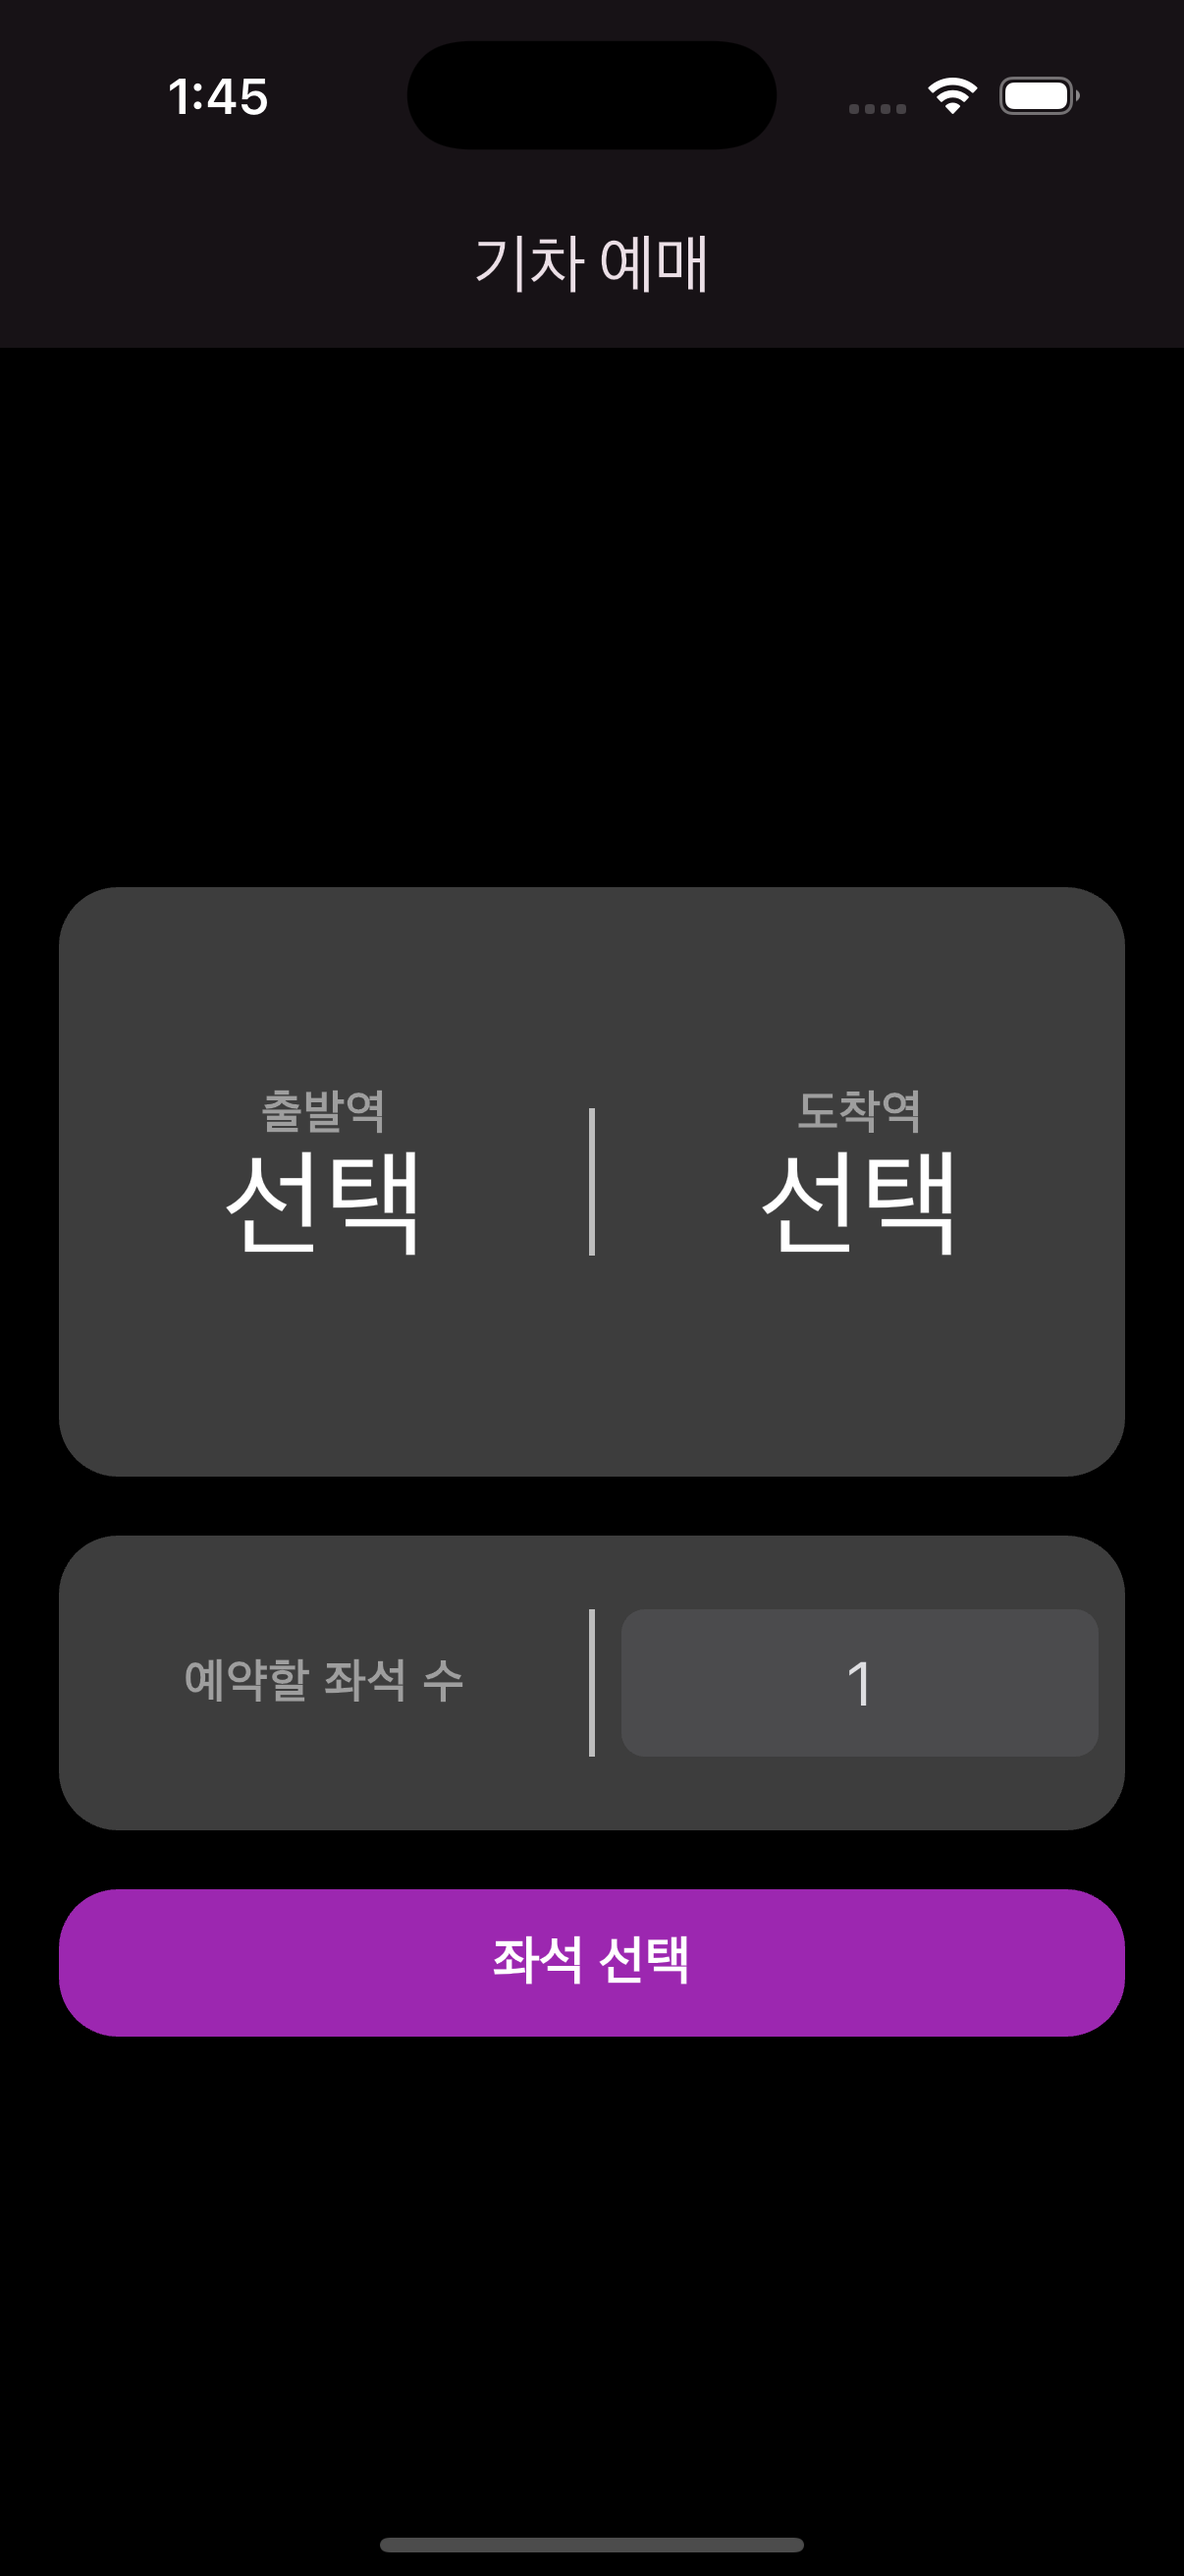
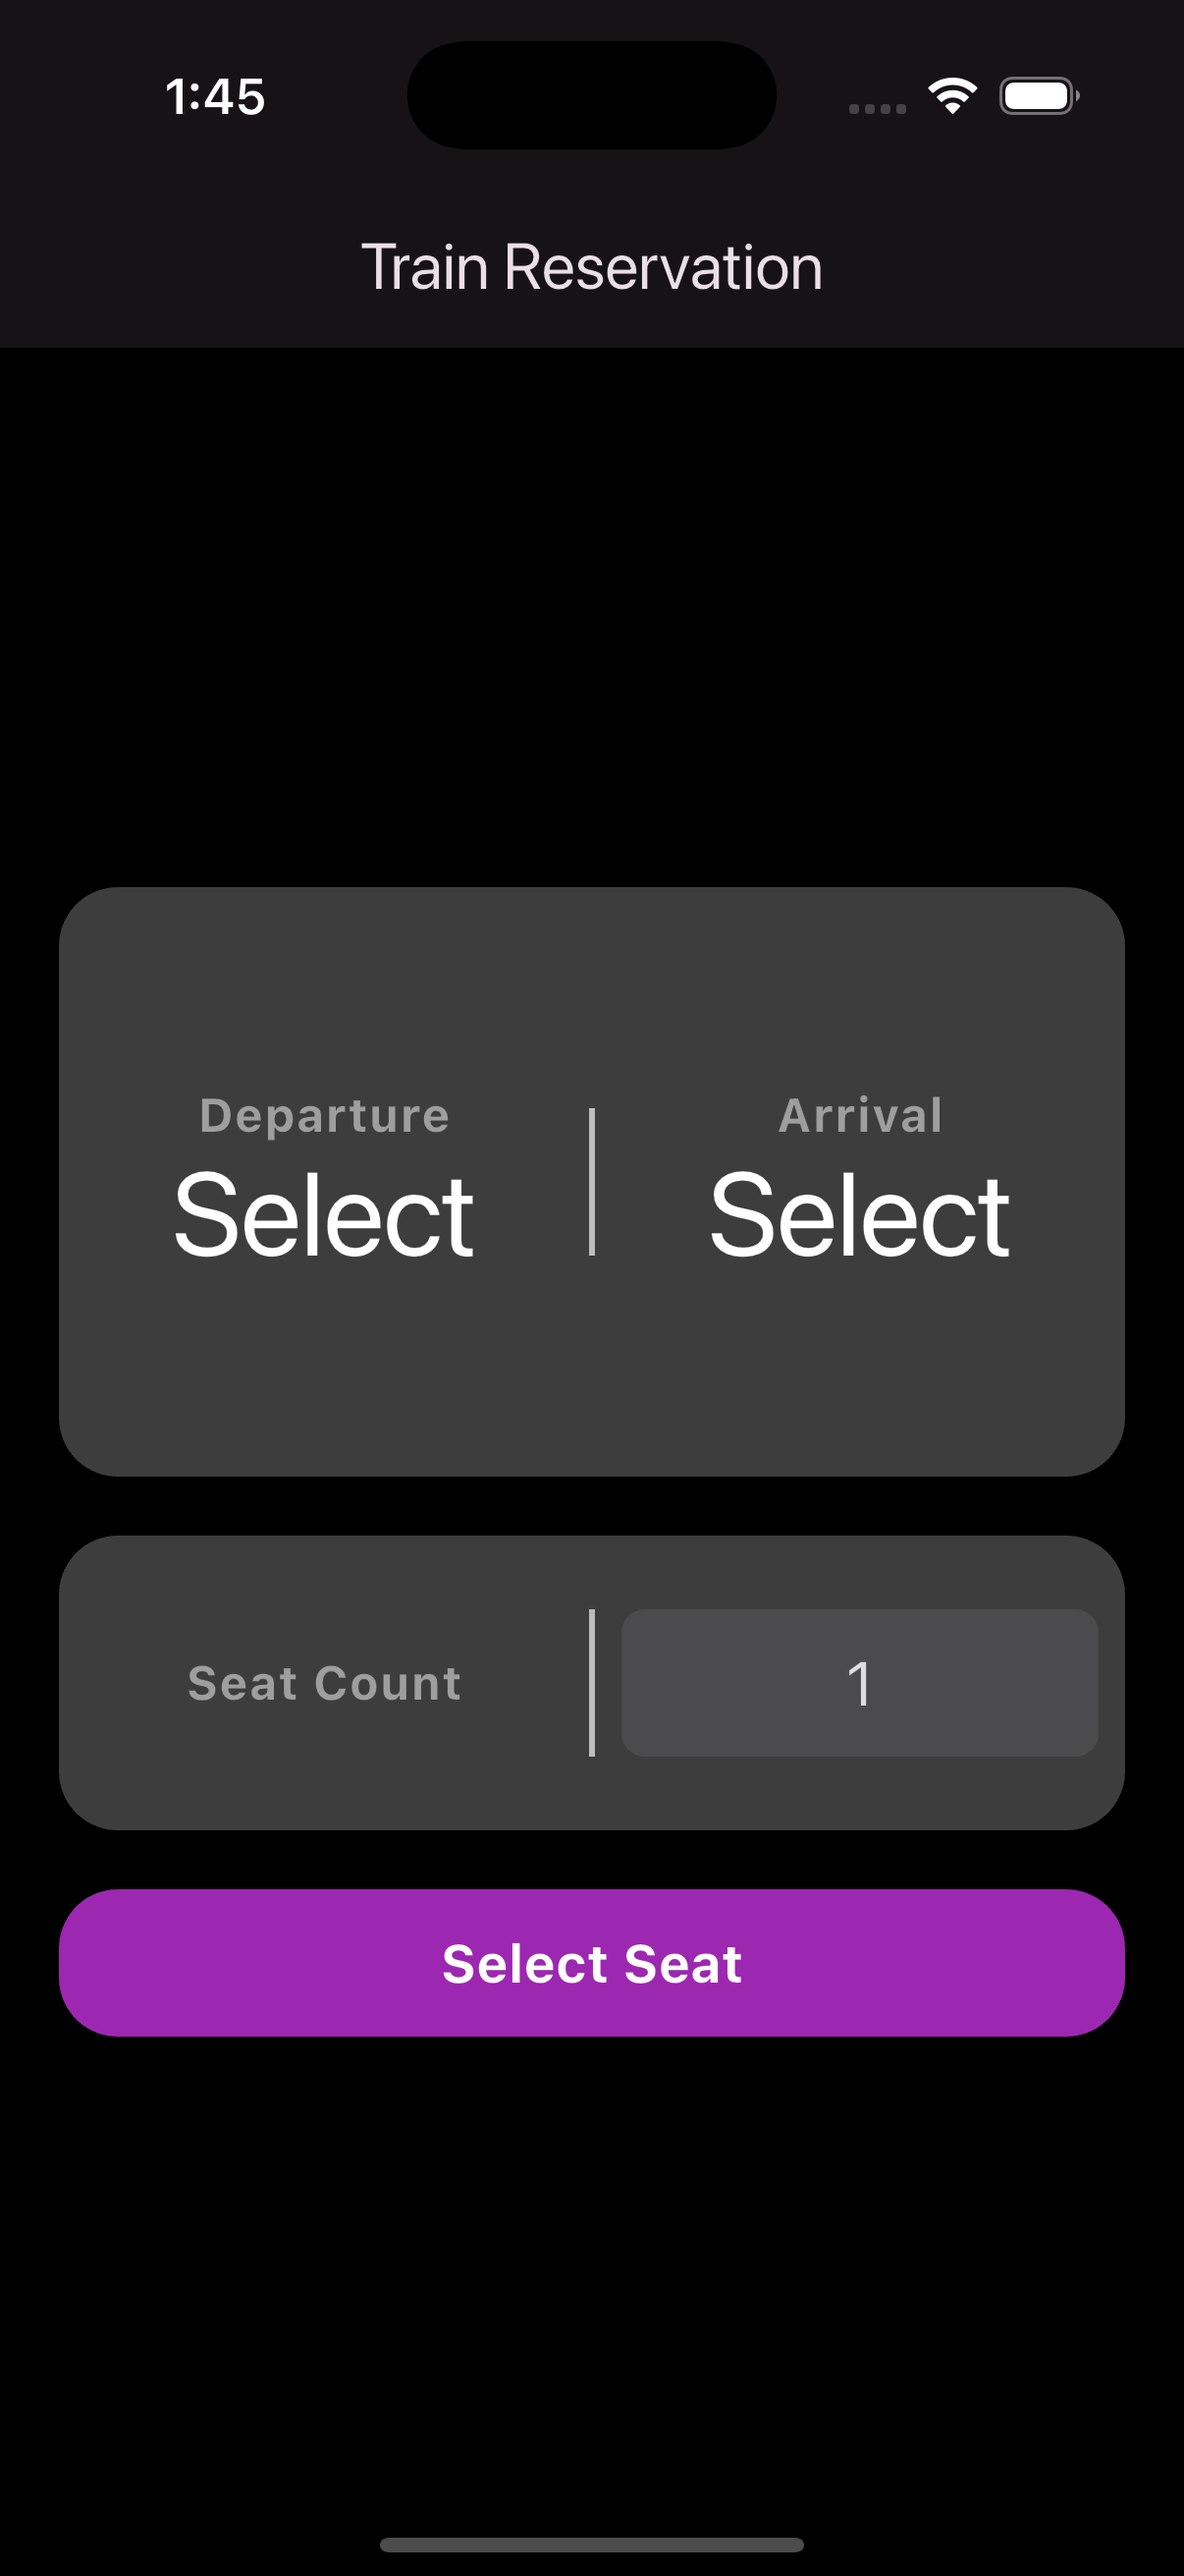
docs: README 다국어 설명 추가 및 구조/스크린샷 갱신

diff --git a/README.md b/README.md
@@ -27,61 +27,50 @@ _기차 여행을 떠날 준비 되셨나요?_
      - 출발역과 도착역이 설정되지 않은 경우, 경고창을 통해 사용자에게 안내합니다.
    - 확인 버튼 구성
      - 확인 다이얼로그는 기본 파란색 확인 버튼이 포함된 CupertinoDialog 스타일로 구성되어 있습니다.
+4. 다국어 지원 🌐
+   - 한국어/영어 지원
+     - 앱 내 텍스트는 사용자의 디바이스 언어 설정에 따라 자동으로 변경됩니다.
+   - ARB 파일 기반
+     - intl_en.arb / intl_ko.arb 파일을 통해 메시지가 정의되고 관리됩니다.
+   - 커스텀 역 이름/좌석 안내 메시지 대응
+     - 선택 좌석 수, 경고 메시지 등도 다국어로 처리되어 글로벌 사용자 접근성을 높입니다.
 
 ---
 
 ## 🗂 프로젝트 구조
 
 ```
-lib/
-├── main.dart                         # 앱 실행 시작점
-├── core/
-│   ├── constants/
-│   │   └── station.dart              # 역 정보 enum 정의
+flutter_train_app/
+├── lib/
+│   ├── main.dart
+│   ├── core/                       # 공통 유틸 및 테마
+│   │   ├── constants/              # 역 정보 enum 등
+│   │   ├── helpers/                # 헬퍼 함수
+│   │   ├── theme/                  # 라이트/다크 테마 구성
+│   │   └── widgets/                # 공통 위젯 (버튼, 다이얼로그 등)
 │   │
-│   ├── helpers/
-│   │   └── ui_helpers.dart           # 여백, 크기 계산 등 UI 관련 유틸 함수
+│   ├── features/                   # 기능별 화면 구조
+│   │   ├── home/                   # 홈 화면
+│   │   │   ├── home_page.dart
+│   │   │   └── widgets/            # 홈 UI 위젯
+│   │   │
+│   │   ├── stationList/           # 역 선택 화면
+│   │   │   ├── station_list_page.dart
+│   │   │   └── widgets/            # 역 선택 UI 위젯
+│   │   │
+│   │   └── seat/                  # 좌석 선택 화면
+│   │       ├── seat_page.dart
+│   │       ├── models/             # 좌석 관련 데이터 모델
+│   │       └── widgets/            # 좌석 선택 UI 위젯
+│   ├── l10n/                           # 다국어 설정
+│   │   ├── intl_ko.arb                 # 한국어 메시지
+│   │   └── intl_en.arb                 # 영어 메시지
 │   │
-│   ├── theme/
-│   │   ├── button_themes.dart        # 버튼 테마 정의 (FilledButton 등)
-│   │   ├── color_schemes.dart        # 라이트/다크 테마 색상 정의
-│   │   ├── cupertino_themes.dart     # CupertinoDialog 등 iOS 스타일 테마
-│   │   ├── custom_colors.dart        # 커스텀 컬러 상수 정의
-│   │   ├── text_themes.dart          # 텍스트 테마 정의
-│   │   └── theme.dart                # 전체 테마 통합 설정
-│   │
-│   └── widgets/
-│       ├── main_button.dart          # 공통 버튼 위젯
-│       └── dialogs/
-│           ├── confirm_dialog.dart   # 확인용 다이얼로그 구성
-│           └── info_dialog.dart      # 정보 안내 다이얼로그 구성
+│   └── generated/                      # Flutter gen-l10n 생성 파일
+│       └── intl/                       # 메시지 번역 Dart 파일
 │
-├── features/
-│   ├── home/
-│   │   ├── home_page.dart            # 앱 메인 페이지 (좌석 예약 메인)
-│   │   └── widgets/
-│   │       ├── box_container.dart    # 콘텐츠 감싸기용 레이아웃 박스
-│   │       ├── seat_count_box.dart   # 좌석 개수 선택 박스
-│   │       ├── station_result.dart   # 출발/도착역 결과 출력 UI
-│   │       └── stations_box.dart     # 출발/도착역 선택 박스
-│   │
-│   ├── seat/
-│   │   ├── seat_page.dart            # 좌석 선택 페이지
-│   │   ├── models/
-│   │   │   └── seat_position.dart    # 좌석 위치 모델 정의 (row, col)
-│   │   └── widgets/
-│   │       ├── action_seat_box.dart  # 탭 가능한 좌석 박스
-│   │       ├── seat_box.dart         # 기본 좌석 박스
-│   │       ├── seat_col_list.dart    # 좌석 세로 목록
-│   │       ├── seat_header.dart      # 경로 정보 헤더
-│   │       ├── seat_list_view.dart   # 좌석 전체 목록
-│   │       └── seat_select_info.dart # 선택/미선택 좌석 정보 표시
-│   │
-│   └── stationList/
-│       ├── station_list_page.dart    # 출발/도착역 선택 페이지
-│       └── widgets/
-│           ├── selectable_station_tile.dart  # 선택 가능한 역 타일
-│           └── station_tile.dart              # 역 정보 타일
+├── pubspec.yaml                   # 프로젝트 의존성 및 설정
+└── l10n.yaml                      # 다국어 관련 설정 파일
 ```
 
 ---
@@ -94,6 +83,7 @@ lib/
 - **UI:** Material & Cupertino 혼합 UI
 - **아키텍처:** 기능 중심 (feature-first) 구조
 - **테마 구성:** color_schemes, text_themes, button_themes 등으로 분리된 라이트/다크 테마 지원
+- **다국어 지원:** Flutter Intl을 활용한 한국어/영어 다국어 설정
 
 ---
 
